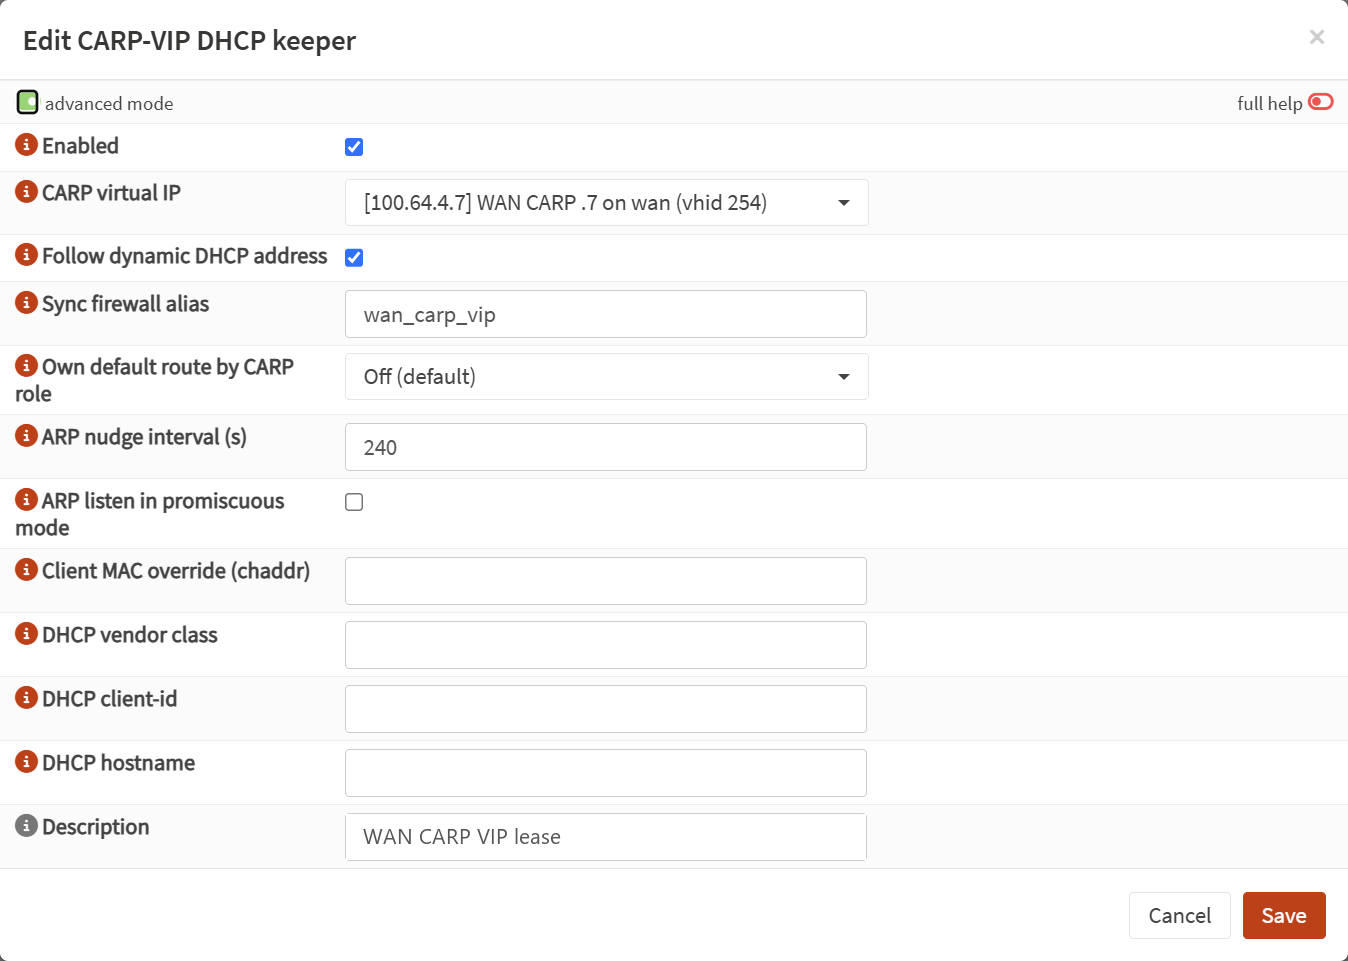
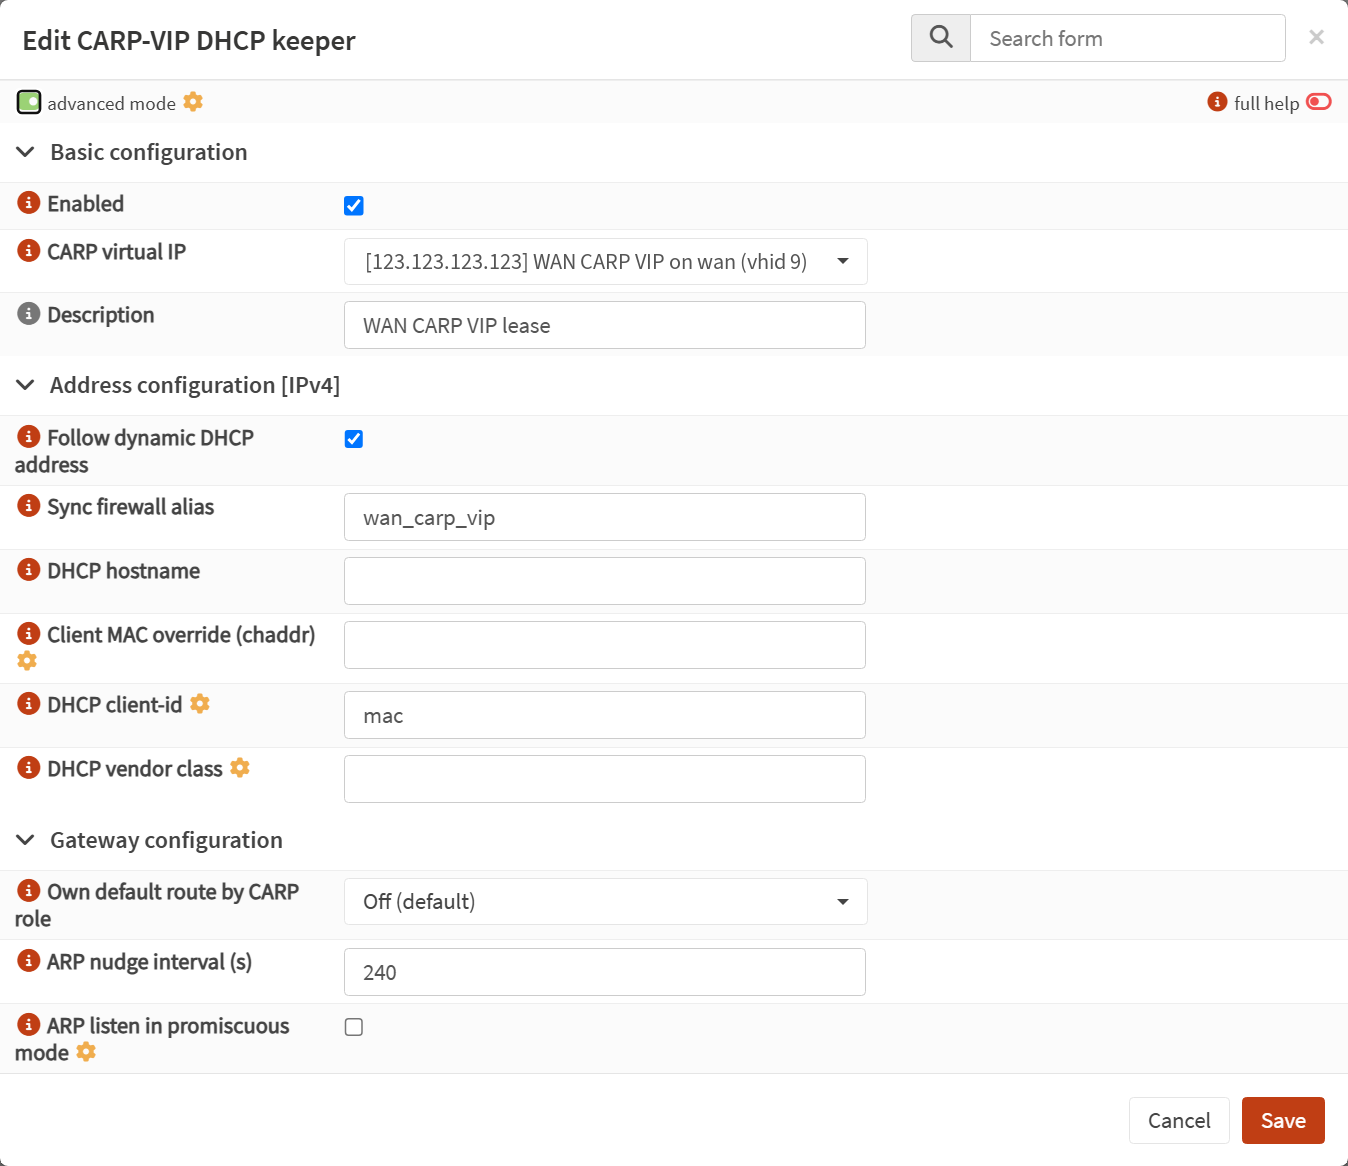
carpvipdhcp: group the keeper dialog into upstream-named sections (#111)
The keeper dialog now uses the sections of the OPNsense 26.7.6 interface dialog: Basic configuration, Address configuration [IPv4] and Gateway configuration. Follow, CARP failover on lease loss and Sync firewall alias sit together; the DHCP identity fields follow upstream's order; every section keeps a basic field (Hostname, CARP failover on lease loss, Own default route by CARP role and ARP nudge interval are now basic). The dialog script reads basic/advanced from the form. Help texts, README, the single-IP guide and the dialog screenshots are updated. Version 1.15.2.

diff --git a/net/os-carp-vip-dhcp/src/opnsense/scripts/OPNsense/CarpVipDhcp/leasekeeper/__init__.py b/net/os-carp-vip-dhcp/src/opnsense/scripts/OPNsense/CarpVipDhcp/leasekeeper/__init__.py
@@ -18,4 +18,4 @@ wires up and runs the Keeper defined here. Modules, leaf-first:
 # PLUGIN_VERSION from this line (so the package version and the daemon's own
 # reported version can never drift). Keep the assignment on one line as
 # __version__ = "X.Y.Z" so the Makefile's sed can read it.
-__version__ = "1.15.1"
+__version__ = "1.15.2"

diff --git a/README.md b/README.md
@@ -106,8 +106,8 @@ All per-keeper; sensible defaults mean most setups only pick a CARP VIP and enab
 - **Sync firewall alias** *(optional)*: name a Host alias and the plugin keeps it set to the VIP's current address, so Source NAT and rules pointed at the alias follow a dynamic address. See *Following a dynamic address*.
 - **ARP nudge** *(default on)*: keeps the upstream gateway's ARP entry for the VIP fresh and listens for the reply as a reachability signal. See *ARP nudge &amp; reachability*.
 - **CARP failover on lease loss** *(optional, only with Follow off)*: demote this node (hand the VIP to the peer) if the keeper stops holding the correct lease. A following keeper adopts a new address instead of losing its lease, so the two are mutually exclusive.
-- **DHCP vendor class / DHCP client-id / DHCP hostname** *(advanced)*: set option 60, 61 or 12 for servers that only lease to a known value. The client-id `mac` (the default for new keepers) sends hardware type 1 + the keeper's MAC, the same *form* a normal OPNsense WAN sends (type 1 + its MAC). So if the WAN already ran on the CARP virtual MAC (the guide's pre-flight), an ISP that identifies clients by option 61 sees the same client when the keeper takes over; any other value is sent as text. On a server that keys the lease on the **client-id** (not the chaddr), **both HA nodes must present the *same* client-id** - a divergent one gets them different addresses and breaks the shared VIP. `mac` is identical on both nodes by design; a text value is kept identical by HA config-sync. See the [single-IP guide](net/os-carp-vip-dhcp/docs/single-ip-wan-carp.md) (step 4 in section 6.3, and section 9.2) for the WAN Hostname case and for changing the client-id of an existing keeper.
-- **Own default route by CARP role** *(advanced, default off)*: one keeper owns the IPv4 default route as a function of CARP role and lease, so a failover moves the default with the role instead of leaving a backup black-holing traffic. Modes **observe** (log only) and **enforce**. See *Owning the default route by CARP role* below.
+- **DHCP hostname / vendor class / client-id** *(vendor class and client-id: advanced)*: set option 12, 60 or 61 for servers that only lease to a known value. The client-id `mac` (the default for new keepers) sends hardware type 1 + the keeper's MAC, the same *form* a normal OPNsense WAN sends (type 1 + its MAC). So if the WAN already ran on the CARP virtual MAC (the guide's pre-flight), an ISP that identifies clients by option 61 sees the same client when the keeper takes over; any other value is sent as text. On a server that keys the lease on the **client-id** (not the chaddr), **both HA nodes must present the *same* client-id** - a divergent one gets them different addresses and breaks the shared VIP. `mac` is identical on both nodes by design; a text value is kept identical by HA config-sync. See the [single-IP guide](net/os-carp-vip-dhcp/docs/single-ip-wan-carp.md) (step 4 in section 6.3, and section 9.2) for the WAN Hostname case and for changing the client-id of an existing keeper.
+- **Own default route by CARP role** *(default off)*: one keeper owns the IPv4 default route as a function of CARP role and lease, so a failover moves the default with the role instead of leaving a backup black-holing traffic. Modes **observe** (log only) and **enforce**. See *Owning the default route by CARP role* below.
 - **Backup egress (internet while not master)** *(advanced, default off; needs the default-route mode above set to observe/enforce)*: once the master owns the default route, the backup has no WAN route of its own, so its own traffic (updates, NTP, DNS, remote access) has nowhere to go. This routes the backup's egress to the master via a leak-safe /1-split (or a configured prefix list) and withdraws it on promotion to master. See the [backup egress guide](net/os-carp-vip-dhcp/docs/backup-egress.md).
 - **HA config sync** *(optional)*: replicate the keeper config to the peer (System ‣ High Availability ‣ Settings), so you configure once on the master. Safe: the config is node-agnostic. OPNsense syncs on demand, not on save: after a keeper change, press the keeper's *Synchronize and Restart* button under System ‣ High Availability ‣ Status, which copies the config and restarts the peer's keeper with it. The cron job *HA update and reconfigure backup* copies the config but does not restart the keepers, so the peer keeps running its previous settings until you restart them.
 - **Self-healing & health banner:** the daemon never exits on a transient fault (it keeps its heartbeat fresh so CARP doesn't falsely demote the node), and a GUI banner warns if any enabled keeper stops holding its lease - closing the silent-failure gap on a redundant spare.

diff --git a/net/os-carp-vip-dhcp/docs/single-ip-wan-carp.md b/net/os-carp-vip-dhcp/docs/single-ip-wan-carp.md
@@ -288,6 +288,10 @@ are examples, substitute your own.*
 | 9 | Allow `SYNC net -> any` | Firewall ‣ Rules ‣ SYNC |
 | 10 | Verify (`pfctl`, `tcpdump -T carp`, a failover) | shell |
 
+> **Interface pages:** _Interfaces ‣ [WAN]_ is the classic per-interface page. From 26.7.6 the
+> same settings are also under _Interfaces ‣ Assignments_ (edit the interface row). There
+> **Save** only queues a change and **Apply** activates it; a reboot before Apply discards it.
+
 > **NAT menu:** the Firewall ‣ NAT menu carries both a **Source NAT** page and a legacy
 > **Outbound** page (both are present on 26.1 and 26.7). Either can host the source-NAT rule
 > this guide needs; the steps below use **Source NAT** (_Firewall ‣ NAT ‣ Source NAT_). See
@@ -702,8 +706,9 @@ route and only its on-link path (the VIP) changes. That is the default
 (`defaultRouteMode = off`), and everything above applies unchanged.
 
 `enforce` is an opt-in alternative for when you want exactly one node to hold a default
-at a time. In the GUI this is the keeper's **Own default route by CARP role** field (advanced
-mode); `defaultRouteMode` is its name in the config and the log. The keeper then owns the IPv4 default route (`0.0.0.0/0`) as a function of its
+at a time. In the GUI this is the keeper's **Own default route by CARP role** field (the
+keeper dialog's Gateway configuration section); `defaultRouteMode` is its name in the config
+and the log. The keeper then owns the IPv4 default route (`0.0.0.0/0`) as a function of its
 CARP role and whether it holds a lease: **only the CARP master that actually holds a
 lease keeps a default in the FIB; every other state has none.** The failure mode is
 therefore a *withdrawn* default, never a black-holed one, a node that cannot route stops
@@ -728,7 +733,7 @@ wiring. FRR is not required by the plugin.
 Only one keeper may run `enforce` (a model validation enforces this): two keepers both
 trying to own the single `0.0.0.0/0` would fight over it.
 
-<p align="center"><img src="img/settings-enforce.png" alt="Keeper dialog in advanced mode: Own default route by CARP role set to Enforce, Backup egress on, route form /1-split, gateway = an internal CARP VIP" width="700"><br>
+<p align="center"><img src="img/settings-enforce.png" alt="Keeper dialog in advanced mode: Own default route by CARP role set to Enforce, Backup egress on, route form /1-split" width="700"><br>
 <sub><i>The WAN keeper in the role-driven design: <b>Own default route by CARP role</b> = Enforce, <b>Backup egress</b> on with the <code>/1</code>-split form and an internal CARP VIP as the gateway.</i></sub></p>
 
 ### The gateway, and `force_down`

diff --git a/net/os-carp-vip-dhcp/docs/backup-egress.md b/net/os-carp-vip-dhcp/docs/backup-egress.md
@@ -180,7 +180,7 @@ active locally, so the recommended VIP gateway is not caught by this guard.
 
 ## Config fields
 
-<p align="center"><img src="img/settings-enforce.png" alt="Keeper dialog in advanced mode: Own default route by CARP role set to Enforce, Backup egress on, route form /1-split, gateway = an internal CARP VIP" width="700"><br>
+<p align="center"><img src="img/settings-enforce.png" alt="Keeper dialog in advanced mode: Own default route by CARP role set to Enforce, Backup egress on, route form /1-split" width="700"><br>
 <sub><i>The WAN keeper in the role-driven design: <b>Own default route by CARP role</b> = Enforce, <b>Backup egress</b> on with the <code>/1</code>-split form and an internal CARP VIP as the gateway.</i></sub></p>
 
 | Field (GUI label) | Meaning |
